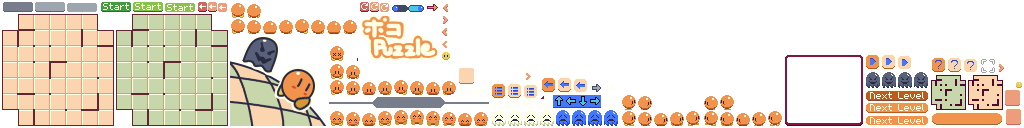
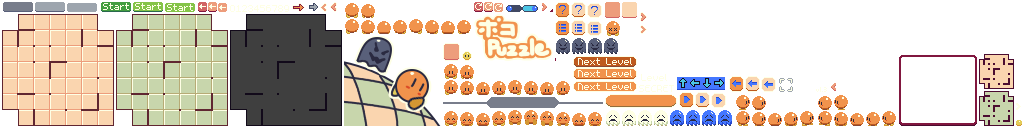
popup on secret unlock, secret tileset, text, etc.

diff --git a/core/src/main/java/com/distraction/glj9/Main.java b/core/src/main/java/com/distraction/glj9/Main.java
@@ -10,6 +10,7 @@ import com.badlogic.gdx.graphics.Pixmap;
 import com.badlogic.gdx.graphics.Texture;
 import com.badlogic.gdx.graphics.g2d.TextureRegion;
 import com.badlogic.gdx.graphics.glutils.FrameBuffer;
+import com.distraction.glj9.screens.Dialog;
 import com.distraction.glj9.tile.Direction;
 
 /** {@link com.badlogic.gdx.ApplicationListener} implementation shared by all platforms. */
@@ -22,6 +23,7 @@ public class Main extends ApplicationAdapter {
     private OrthographicCamera cam;
 
     private int count;
+    private float dialogTime;
 
     @Override
     public void create() {
@@ -35,8 +37,9 @@ public class Main extends ApplicationAdapter {
         fbo = new FrameBuffer(Pixmap.Format.RGBA8888, Constants.WIDTH, Constants.HEIGHT, false);
         fbo.getColorBufferTexture().setFilter(Texture.TextureFilter.Nearest, Texture.TextureFilter.Nearest);
         region = new TextureRegion(fbo.getColorBufferTexture());
+        region.flip(false, true);
         cam = new OrthographicCamera();
-        cam.setToOrtho(true, Constants.WIDTH, Constants.HEIGHT);
+        cam.setToOrtho(false, Constants.WIDTH, Constants.HEIGHT);
     }
 
     @Override
@@ -49,6 +52,7 @@ public class Main extends ApplicationAdapter {
             fbo.begin();
         }
         context.sm.render();
+        renderDialog();
         if (context.pixelPerfect) {
             fbo.end();
             context.sb.begin();
@@ -57,6 +61,25 @@ public class Main extends ApplicationAdapter {
             context.sb.draw(region, 0, 0);
             context.sb.end();
         }
+    }
+
+    private void renderDialog() {
+        if (context.dialog == null) return;
+        if (!context.dialog.isStarted()) {
+            dialogTime = 1.5f;
+            context.dialog.next();
+        }
+        dialogTime -= Gdx.graphics.getDeltaTime();
+        if (dialogTime < 0) {
+            context.dialog.next();
+        }
+        context.dialog.update(Gdx.graphics.getDeltaTime());
+        context.sb.begin();
+        context.sb.setColor(Color.WHITE);
+        context.sb.setProjectionMatrix(cam.combined);
+        context.dialog.render(context.sb);
+        context.sb.end();
+        if (context.dialog.isDone()) context.dialog = null;
     }
 
     @Override
@@ -80,6 +103,7 @@ public class Main extends ApplicationAdapter {
         if (count == Constants.SEQUENCE.length) {
             Constants.SECRET_UNLOCKED = true;
             context.audio.playSound("select", 0.4f);
+            context.dialog = new Dialog(context, new String[] { "Secret Unlocked!"}, Constants.WIDTH / 2f, 10f, Constants.WIDTH * 2, 10);
         }
     }
 }

diff --git a/core/src/main/java/com/distraction/glj9/utils/HUD.java b/core/src/main/java/com/distraction/glj9/utils/HUD.java
@@ -22,6 +22,7 @@ public class HUD extends Entity {
 
     // hack because font integer positions and stuff
     private final TextureRegion levelText;
+    private final TextureRegion secretText;
     private final TextureRegion[] levelNumText;
     private final int totalTextWidth;
 
@@ -132,6 +133,7 @@ public class HUD extends Entity {
         speedButton.x = Constants.WIDTH - 19;
         speedButton.y = 10;
 
+        secretText = context.getImage("secret");
         levelText = context.getImage("leveltext");
         TextureRegion[] numTexts = context.getImage("numtext").split(6, 7)[0];
         String levelString = Integer.toString(tileMap.level);
@@ -211,12 +213,16 @@ public class HUD extends Entity {
     public void render(SpriteBatch sb) {
         if (tileMap.level > 0) {
             Utils.drawCentered(sb, levelTextBg, levelTextx, Constants.HEIGHT / 2f - 3);
-            sb.draw(levelText, levelTextx - totalTextWidth / 2f, Constants.HEIGHT / 2f - 7);
-            if (levelNumText.length > 1) {
-                sb.draw(levelNumText[0], levelTextx + 11 + 0.5f, Constants.HEIGHT / 2f - 6);
-                sb.draw(levelNumText[1], levelTextx + 17 + 0.5f, Constants.HEIGHT / 2f - 6);
+            if (tileMap.level == 37) {
+                sb.draw(secretText, levelTextx - totalTextWidth / 2f + 4, Constants.HEIGHT / 2f - 6);
             } else {
-                sb.draw(levelNumText[0], levelTextx + 15 + 0.5f, Constants.HEIGHT / 2f - 6);
+                sb.draw(levelText, levelTextx - totalTextWidth / 2f, Constants.HEIGHT / 2f - 7);
+                if (levelNumText.length > 1) {
+                    sb.draw(levelNumText[0], levelTextx + 11 + 0.5f, Constants.HEIGHT / 2f - 6);
+                    sb.draw(levelNumText[1], levelTextx + 17 + 0.5f, Constants.HEIGHT / 2f - 6);
+                } else {
+                    sb.draw(levelNumText[0], levelTextx + 15 + 0.5f, Constants.HEIGHT / 2f - 6);
+                }
             }
         }
         sb.setColor(Constants.DIM_BG);

diff --git a/core/src/main/java/com/distraction/glj9/screens/StartScreen.java b/core/src/main/java/com/distraction/glj9/screens/StartScreen.java
@@ -1,0 +1,53 @@
+package com.distraction.glj9.screens;
+
+import com.badlogic.gdx.Gdx;
+import com.badlogic.gdx.Input;
+import com.badlogic.gdx.graphics.Color;
+import com.badlogic.gdx.graphics.g2d.BitmapFont;
+import com.badlogic.gdx.graphics.g2d.GlyphLayout;
+import com.badlogic.gdx.utils.Align;
+import com.badlogic.gdx.utils.ScreenUtils;
+import com.distraction.glj9.Constants;
+import com.distraction.glj9.Context;
+
+public class StartScreen extends Screen {
+
+    private final BitmapFont font;
+    private final GlyphLayout layout;
+
+    public StartScreen(Context context) {
+        super(context);
+
+        font = context.getFont();
+        layout = new GlyphLayout(font, "Click to play", Constants.WHITE, 0, Align.center, false);
+
+        ignoreInput = false;
+        out = new Transition(context, Transition.Type.FLASH_OUT, 0.5f, () -> context.sm.replace(new TitleScreen(context)));
+    }
+
+    @Override
+    public void input() {
+        if (ignoreInput) return;
+        if (Gdx.input.isButtonJustPressed(Input.Buttons.LEFT)) {
+            ignoreInput = true;
+            out.start();
+        }
+    }
+
+    @Override
+    public void update(float dt) {
+        out.update(dt);
+    }
+
+    @Override
+    public void render() {
+        ScreenUtils.clear(Constants.BLACK);
+        sb.begin();
+        sb.setProjectionMatrix(cam.combined);
+        sb.setColor(Color.WHITE);
+        font.draw(sb, layout, Constants.WIDTH / 2f, Constants.HEIGHT / 2f + 5);
+
+        out.render(sb);
+        sb.end();
+    }
+}

diff --git a/core/src/main/java/com/distraction/glj9/tile/TileMap.java b/core/src/main/java/com/distraction/glj9/tile/TileMap.java
@@ -74,7 +74,8 @@ public class TileMap {
         this.level = level;
         tilesets = new TextureRegion[][] {
             Utils.flat(context.getImage("tileset").split(TILE_SIZE, TILE_SIZE)),
-            Utils.flat(context.getImage("tileset2").split(TILE_SIZE, TILE_SIZE))
+            Utils.flat(context.getImage("tileset2").split(TILE_SIZE, TILE_SIZE)),
+            Utils.flat(context.getImage("tilesetsecret").split(TILE_SIZE, TILE_SIZE))
         };
         cursor = context.getImage("cursor");
         loadLevel(level);
@@ -421,7 +422,8 @@ public class TileMap {
             for (int col = 0; col < numCols; col++) {
                 int type = tiles[row][col] - 1;
                 if (type < 0) continue;
-                sb.draw(tilesets[(row + col) & 1][type], col * TILE_SIZE, row * TILE_SIZE);
+                int tilesetType = level == 37 ? 2 : (row + col) & 1;
+                sb.draw(tilesets[tilesetType][type], col * TILE_SIZE, row * TILE_SIZE);
             }
         }
         for (Entity a : arrows) a.render(sb);

diff --git a/core/src/main/java/com/distraction/glj9/Context.java b/core/src/main/java/com/distraction/glj9/Context.java
@@ -9,6 +9,7 @@ import com.badlogic.gdx.graphics.g2d.SpriteBatch;
 import com.badlogic.gdx.graphics.g2d.TextureAtlas;
 import com.badlogic.gdx.graphics.g2d.TextureRegion;
 import com.distraction.glj9.audio.AudioHandler;
+import com.distraction.glj9.screens.Dialog;
 import com.distraction.glj9.screens.ScreenManager;
 import com.distraction.glj9.tile.LevelData;
 
@@ -41,6 +42,8 @@ public class Context {
 
     private final Preferences prefs;
 
+    public Dialog dialog;
+
     public Context() {
         assets = new AssetManager();
         assets.load(ATLAS, TextureAtlas.class);
@@ -60,7 +63,8 @@ public class Context {
         audio = new AudioHandler();
 
         sb = new SpriteBatch();
-        sm = new ScreenManager(new com.distraction.glj9.screens.TitleScreen(this));
+//        sm = new ScreenManager(new com.distraction.glj9.screens.TitleScreen(this));
+        sm = new ScreenManager(new com.distraction.glj9.screens.StartScreen(this));
     }
 
     public TextureRegion getImage(String key) {

diff --git a/core/src/main/java/com/distraction/glj9/tile/TileMapPreview.java b/core/src/main/java/com/distraction/glj9/tile/TileMapPreview.java
@@ -76,9 +76,9 @@ public class TileMapPreview {
                 objs[numRows - e.row - 1][e.col] = GHOST;
             }
         }
-        Color levelColor = Utils.isHintLevel(level) ? Constants.LEVEL_SELECT_HIGHLIGHT_TEXT_COLOR : Constants.LEVEL_SELECT_LEVEL_TEXT_COLOR;
-        levelText.setText(font, "Level " + level, levelColor, 0, Align.center, false);
-        arrowsText.setText(font, "Arrows: " + data.numArrows, levelColor, 0, Align.center, false);
+        String text = level == 37 ? "Secret" : "Level " + level;
+        levelText.setText(font, text, Constants.LEVEL_SELECT_LEVEL_TEXT_COLOR, 0, Align.center, false);
+        arrowsText.setText(font, "Arrows: " + data.numArrows, Constants.LEVEL_SELECT_LEVEL_TEXT_COLOR, 0, Align.center, false);
     }
 
     public void render(SpriteBatch sb) {

diff --git a/core/src/main/java/com/distraction/glj9/tile/LevelTile.java b/core/src/main/java/com/distraction/glj9/tile/LevelTile.java
@@ -82,7 +82,8 @@ public class LevelTile extends Entity {
         if (time < INTERVAL && level != nextLevel) {
             level = nextLevel;
             Color levelColor = Utils.isHintLevel(level) ? Constants.LEVEL_SELECT_HIGHLIGHT_TEXT_COLOR : Constants.LEVEL_SELECT_LEVEL_TEXT_COLOR;
-            text.setText(font, level + "", levelColor, 0, Align.center, false);
+            String levelText = level == 37 ? "??" : level + "";
+            text.setText(font, levelText, levelColor, 0, Align.center, false);
         }
         float targety = time > 0 && time < INTERVAL ? -1 : 0;
         if (desty < targety) {

diff --git a/core/src/main/java/com/distraction/glj9/screens/Dialog.java b/core/src/main/java/com/distraction/glj9/screens/Dialog.java
@@ -60,6 +60,10 @@ public class Dialog extends Entity {
         ninePatch.fillColor = Constants.DIALOG_BG;
     }
 
+    public boolean isStarted() {
+        return textIndex >= 0;
+    }
+
     public boolean next() {
         if (lock && textIndex == texts.length - 1) return false;
         if (textIndex == texts.length) return false;

diff --git a/core/src/main/java/com/distraction/glj9/Constants.java b/core/src/main/java/com/distraction/glj9/Constants.java
@@ -57,6 +57,7 @@ public class Constants {
     };
 
     public static final Color WHITE = COLORS[7];
+    public static final Color BLACK = COLORS[0];
     public static final Color PINK = COLORS[26];
     public static final Color DARK_RED = COLORS[14];
     public static final Color SKY = COLORS[31];
